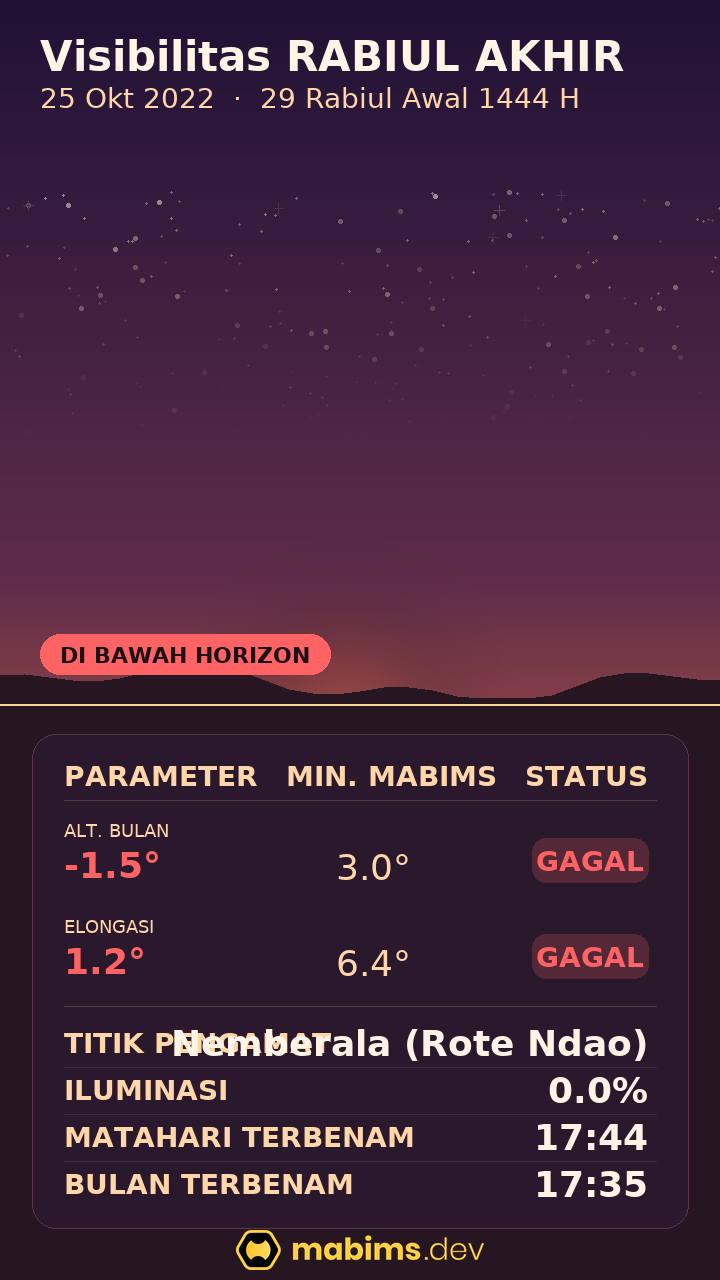
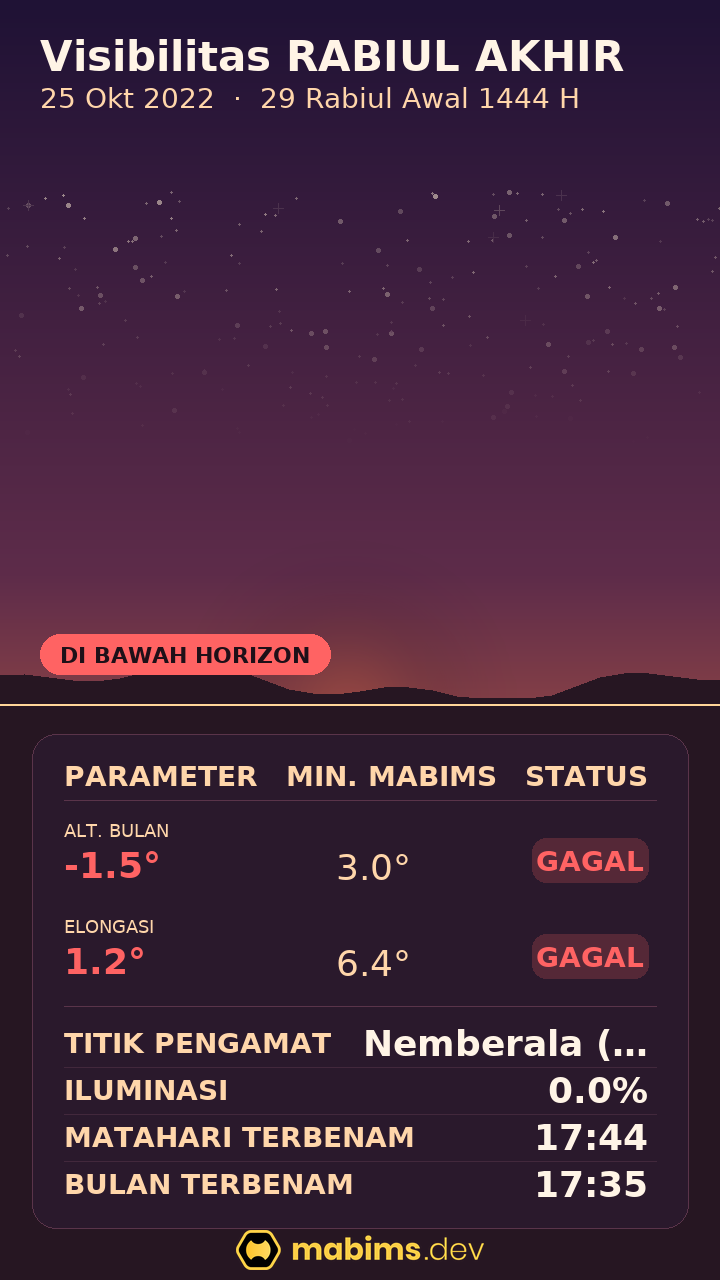
fix(viz): ellipsize long deciding-site names so they don't overlap the label

Changed region(s): [[0.2444, 0.7812, 0.9167, 0.8438]]

diff --git a/api/app/hilal/chart.py b/api/app/hilal/chart.py
@@ -85,6 +85,23 @@ def _txt(d: ImageDraw.ImageDraw, xy, s, f, fill, anchor="la") -> None:
     d.text(xy, s, font=f, fill=fill, anchor=anchor)
 
 
+def _fit_text(d: ImageDraw.ImageDraw, s: str, f, max_width: float) -> str:
+    """Truncate ``s`` with an ellipsis so it fits ``max_width`` at font ``f``."""
+    if max_width <= 0:
+        return ""
+    if d.textlength(s, font=f) <= max_width:
+        return s
+    ellipsis = "\u2026"
+    lo, hi = 0, len(s)
+    while lo < hi:
+        mid = (lo + hi + 1) // 2
+        if d.textlength(s[:mid].rstrip() + ellipsis, font=f) <= max_width:
+            lo = mid
+        else:
+            hi = mid - 1
+    return s[:lo].rstrip() + ellipsis
+
+
 def _vgrad(w: int, h: int, stops: list[tuple[float, tuple[int, int, int]]]) -> Image.Image:
     img = Image.new("RGBA", (w, h))
     px = img.load()
@@ -326,8 +343,10 @@ def _criteria_table(img: Image.Image, data: dict, box: tuple, pal: dict) -> None
         if i:
             d.line([x0, ry, x1, ry], fill=(66, 40, 60), width=1)
         cy = ry + simple_h // 2
+        lab_w = d.textlength(lab, font=f_head)
+        max_val_w = xr - (x0 + lab_w + 16)
         _txt(d, (x0, cy), lab, f_head, pal["muted"], anchor="lm")
-        _txt(d, (xr, cy), val, f_value, pal["text"], anchor="rm")
+        _txt(d, (xr, cy), _fit_text(d, val, f_value, max_val_w), f_value, pal["text"], anchor="rm")
 
 
 # ── composition ──
